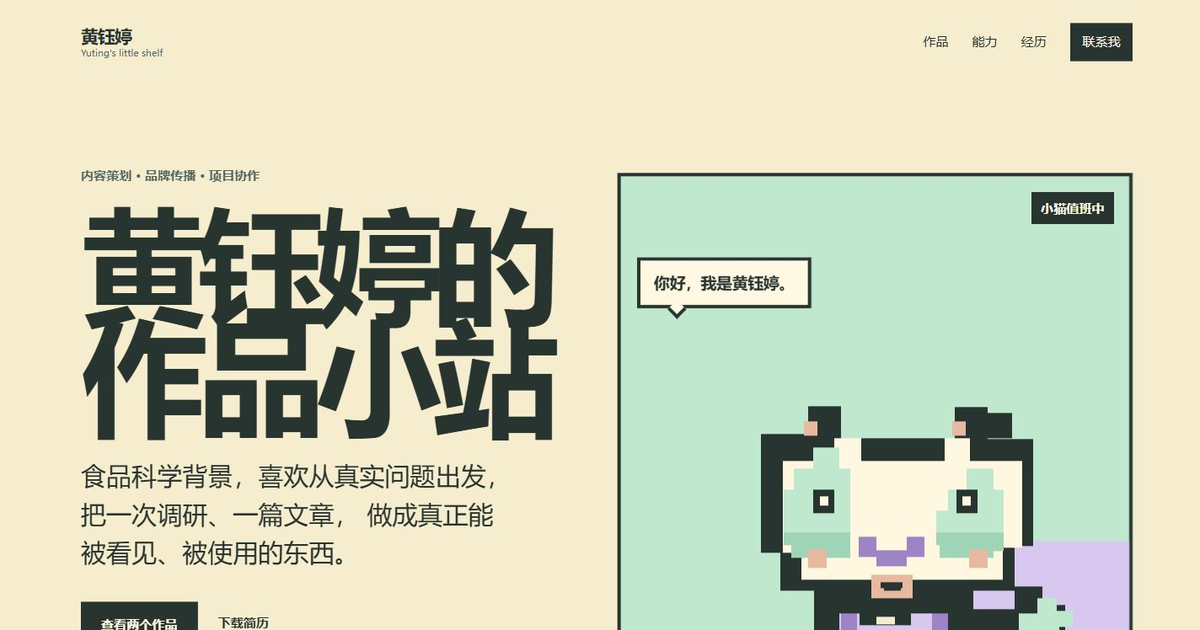
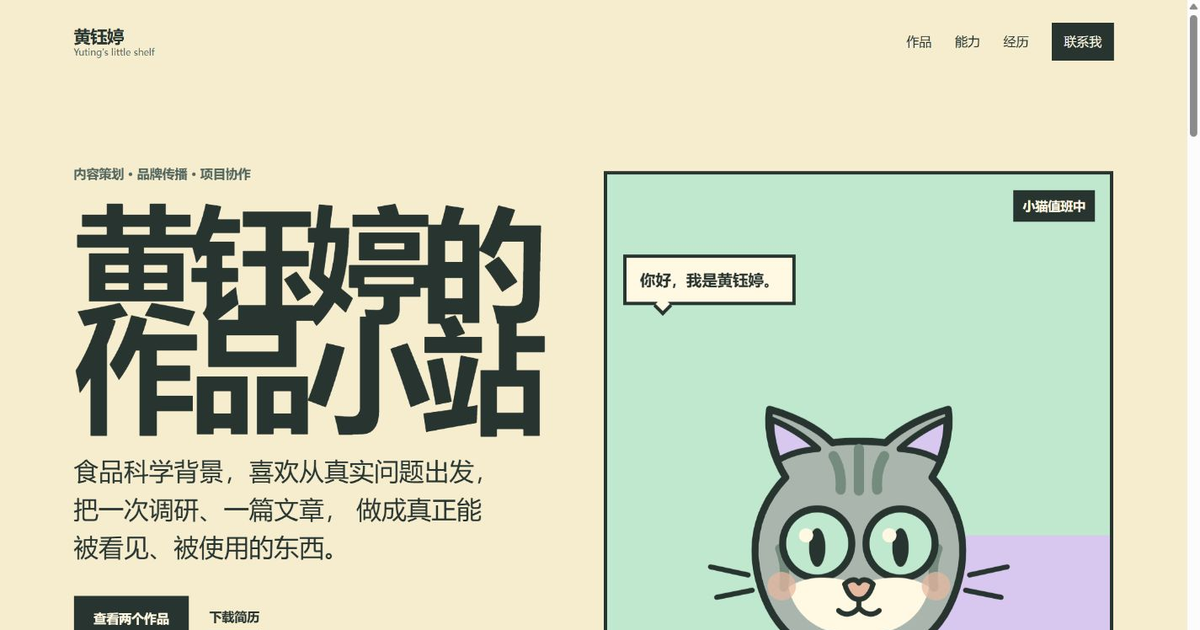
Refine cat mascot illustration

diff --git a/index.html b/index.html
@@ -62,45 +62,42 @@
         </dl>
       </div>
 
-      <div class="cat-stage" aria-label="像素小猫互动区">
+      <div class="cat-stage" aria-label="Q版美短小猫互动区">
         <div class="cat-stage__label">小猫值班中</div>
-        <button class="cat-button" type="button" data-cat-button aria-label="和像素小猫互动，查看下一条介绍">
+        <button class="cat-button" type="button" data-cat-button aria-label="和美短小猫互动，查看下一条介绍">
           <span class="cat-bubble" data-cat-message>你好，我是黄钰婷。</span>
-          <svg class="pixel-cat" viewBox="0 0 420 350" role="img" aria-labelledby="cat-title cat-desc">
-            <title id="cat-title">一只大头大眼的像素小猫</title>
-            <desc id="cat-desc">奶油色、薄荷绿和淡紫色的猫咪，正坐在作品小站里值班。</desc>
-            <g shape-rendering="crispEdges">
-              <path d="M298 231h28v-22h26v18h22v24h-18v42h-26v-22h-32" fill="#27342f"/>
-              <path d="M330 235h18v-15h18v12h15v15h-13v28h-18v-16h-20" fill="#bfe8cf"/>
+          <svg class="cat-portrait" viewBox="0 0 420 350" role="img" aria-labelledby="cat-title cat-desc">
+            <title id="cat-title">一只圆脸的 Q 版美短小猫头像</title>
+            <desc id="cat-desc">灰绿色短毛、薄荷绿眼睛，额头有简洁的淡紫虎斑纹路。</desc>
+            <g fill="none" stroke-linecap="round" stroke-linejoin="round">
+              <ellipse cx="210" cy="304" rx="112" ry="18" fill="#9fd4b6"/>
 
-              <path d="M137 211h150v20h28v80H109v-56h28z" fill="#27342f"/>
-              <path d="M161 235h102v52H161z" fill="#d8c7ef"/>
-              <path d="M161 251h102v9H161z" fill="#fff7df"/>
-              <path d="M123 289h38v30h-38zM283 289h38v30h-38z" fill="#27342f"/>
-              <path d="M131 298h17v11h-17zM291 298h17v11h-17z" fill="#bfe8cf"/>
+              <path
+                d="M138 111C126 92 119 68 122 44C144 50 168 61 184 77C193 75 226 75 236 77C253 61 277 50 298 44C301 68 294 92 282 111C308 138 318 172 309 210C298 256 268 289 210 289C152 289 122 256 111 210C102 172 112 138 138 111Z"
+                fill="#aab5ad"
+                stroke="#27342f"
+                stroke-width="7"
+              />
+              <path d="M131 94C125 78 123 62 124 54C141 61 157 71 170 83C155 84 141 88 131 94Z" fill="#d8c7ef" stroke="#27342f" stroke-width="6"/>
+              <path d="M289 94C295 78 297 62 296 54C279 61 263 71 250 83C265 84 279 88 289 94Z" fill="#d8c7ef" stroke="#27342f" stroke-width="6"/>
 
-              <path d="M87 65h44V39h31v30h108V40h31v30h43v101h-18v42H105v-36H87z" fill="#27342f"/>
-              <path d="M107 91h49V69h25v22h79V69h24v22h49v82h-18v30H125v-26h-18z" fill="#fff7df"/>
-              <path d="M97 69h34V45h23v24z" fill="#27342f"/>
-              <path d="M290 69h34V45h-23v24z" fill="#27342f"/>
-              <path d="M111 67h16V53h13v14zM296 67h-16V53h-13v14z" fill="#e8b9a1"/>
+              <path d="M185 90C191 100 193 111 192 123M210 83C210 96 210 110 210 124M235 90C229 100 227 111 228 123" stroke="#758b7e" stroke-width="10"/>
+              <path d="M132 181C137 194 138 207 136 219M288 181C283 194 282 207 284 219" stroke="#758b7e" stroke-width="9"/>
 
-              <path d="M108 158h63V98h-10v-20h-25v20h-18v20h-10z" fill="#bfe8cf"/>
-              <path d="M108 158h63v24h-56v-12h-7z" fill="#9fd4b6"/>
-              <path d="M252 158h64v-40h-10V98h-25v20h-18v20h-11z" fill="#bfe8cf"/>
-              <path d="M252 158h64v18h-10v6h-51v-12h-3z" fill="#9fd4b6"/>
-              <path d="M136 118h20v22h-20zM271 118h20v22h-20z" fill="#27342f"/>
-              <path d="M142 124h8v9h-8zM277 124h8v9h-8z" fill="#fff7df"/>
+              <circle cx="169" cy="176" r="34" fill="#bfe8cf" stroke="#27342f" stroke-width="7"/>
+              <circle cx="251" cy="176" r="34" fill="#bfe8cf" stroke="#27342f" stroke-width="7"/>
+              <ellipse cx="169" cy="180" rx="8" ry="19" fill="#27342f" stroke="none"/>
+              <ellipse cx="251" cy="180" rx="8" ry="19" fill="#27342f" stroke="none"/>
+              <circle cx="158" cy="168" r="7" fill="#fff8e3" stroke="none"/>
+              <circle cx="240" cy="168" r="7" fill="#fff8e3" stroke="none"/>
 
-              <path d="M179 162h17v13h28v-13h17v19h-17v9h-28v-9h-17z" fill="#9f84c5"/>
-              <path d="M191 198h39v22h-39z" fill="#e8b9a1"/>
-              <path d="M200 205h20v6h-20z" fill="#27342f"/>
-              <path d="M211 205h-8v8h8zM211 205h8v8h-8z" fill="#27342f"/>
+              <path d="M141 219C158 207 183 207 210 216C237 207 262 207 279 219C274 248 247 267 210 267C173 267 146 248 141 219Z" fill="#fff8e3"/>
+              <path d="M196 216C201 211 207 210 210 215C213 210 219 211 224 216C221 226 216 231 210 231C204 231 199 226 196 216Z" fill="#e8b9a1" stroke="#27342f" stroke-width="5"/>
+              <path d="M210 231V239M210 239C204 247 195 247 190 242M210 239C216 247 225 247 230 242" stroke="#27342f" stroke-width="5"/>
 
-              <path d="M131 174h18v18h-18zM283 174h18v18h-18z" fill="#e8b9a1"/>
-              <path d="M162 235h15v52h-15zM248 235h15v52h-15z" fill="#9f84c5"/>
-              <path d="M180 234h48v12h-48z" fill="#27342f"/>
-              <path d="M196 238h17v7h-17z" fill="#f6edcf"/>
+              <circle cx="134" cy="218" r="14" fill="#e8b9a1" opacity=".72" stroke="none"/>
+              <circle cx="286" cy="218" r="14" fill="#e8b9a1" opacity=".72" stroke="none"/>
+              <path d="M101 207L64 199M105 222L70 229M319 207L356 199M315 222L350 229" stroke="#27342f" stroke-width="5"/>
             </g>
           </svg>
           <span class="cat-touch">点一下小猫</span>

diff --git a/styles.css b/styles.css
@@ -355,25 +355,26 @@ svg {
   transform: rotate(45deg);
 }
 
-.pixel-cat {
+.cat-portrait {
   position: absolute;
-  right: 3%;
-  bottom: 1rem;
-  width: min(96%, 33rem);
+  bottom: 1.5rem;
+  left: 50%;
+  width: min(86%, 32rem);
   height: auto;
+  transform: translateX(-50%);
   transform-origin: center bottom;
   transition: transform 180ms var(--ease);
 }
 
-.cat-button:hover .pixel-cat {
-  transform: translateY(-0.4rem);
+.cat-button:hover .cat-portrait {
+  transform: translate(-50%, -0.4rem);
 }
 
-.cat-button:active .pixel-cat {
-  transform: translateY(0.2rem);
+.cat-button:active .cat-portrait {
+  transform: translate(-50%, 0.2rem);
 }
 
-.cat-button.is-poked .pixel-cat {
+.cat-button.is-poked .cat-portrait {
   animation: cat-hop 420ms steps(2, end);
 }
 
@@ -859,10 +860,10 @@ svg {
 @keyframes cat-hop {
   0%,
   100% {
-    transform: translateY(0);
+    transform: translate(-50%, 0);
   }
   45% {
-    transform: translateY(-0.9rem);
+    transform: translate(-50%, -0.9rem);
   }
 }
 
@@ -908,7 +909,7 @@ svg {
     animation: bubble-in 650ms var(--ease) 620ms both;
   }
 
-  .motion-ready .pixel-cat {
+  .motion-ready .cat-portrait {
     animation: cat-breathe 4.5s steps(2, end) infinite;
   }
 }
@@ -949,10 +950,10 @@ svg {
 @keyframes cat-breathe {
   0%,
   100% {
-    transform: translateY(0);
+    transform: translate(-50%, 0);
   }
   50% {
-    transform: translateY(-0.18rem);
+    transform: translate(-50%, -0.18rem);
   }
 }
 
@@ -996,8 +997,8 @@ svg {
     min-height: clamp(30rem, 78vw, 39rem);
   }
 
-  .pixel-cat {
-    width: min(76%, 32rem);
+  .cat-portrait {
+    width: min(72%, 32rem);
   }
 
   .contact-grid {
@@ -1074,9 +1075,9 @@ svg {
     font-size: 0.95rem;
   }
 
-  .pixel-cat {
-    right: 1%;
-    width: 101%;
+  .cat-portrait {
+    bottom: 0.3rem;
+    width: min(96%, 26rem);
   }
 
   .intro,

diff --git a/README.md b/README.md
@@ -24,4 +24,4 @@ python -m http.server 8090
 - `squirrel-plan-cover.png`：竞赛计划书封面
 - `cookie-product.jpg`：计划书内展示的山药爆浆曲奇产品图
 
-页面中的像素小猫由内联 SVG 绘制。
+页面中的 Q 版美短小猫头像由内联 SVG 绘制。
